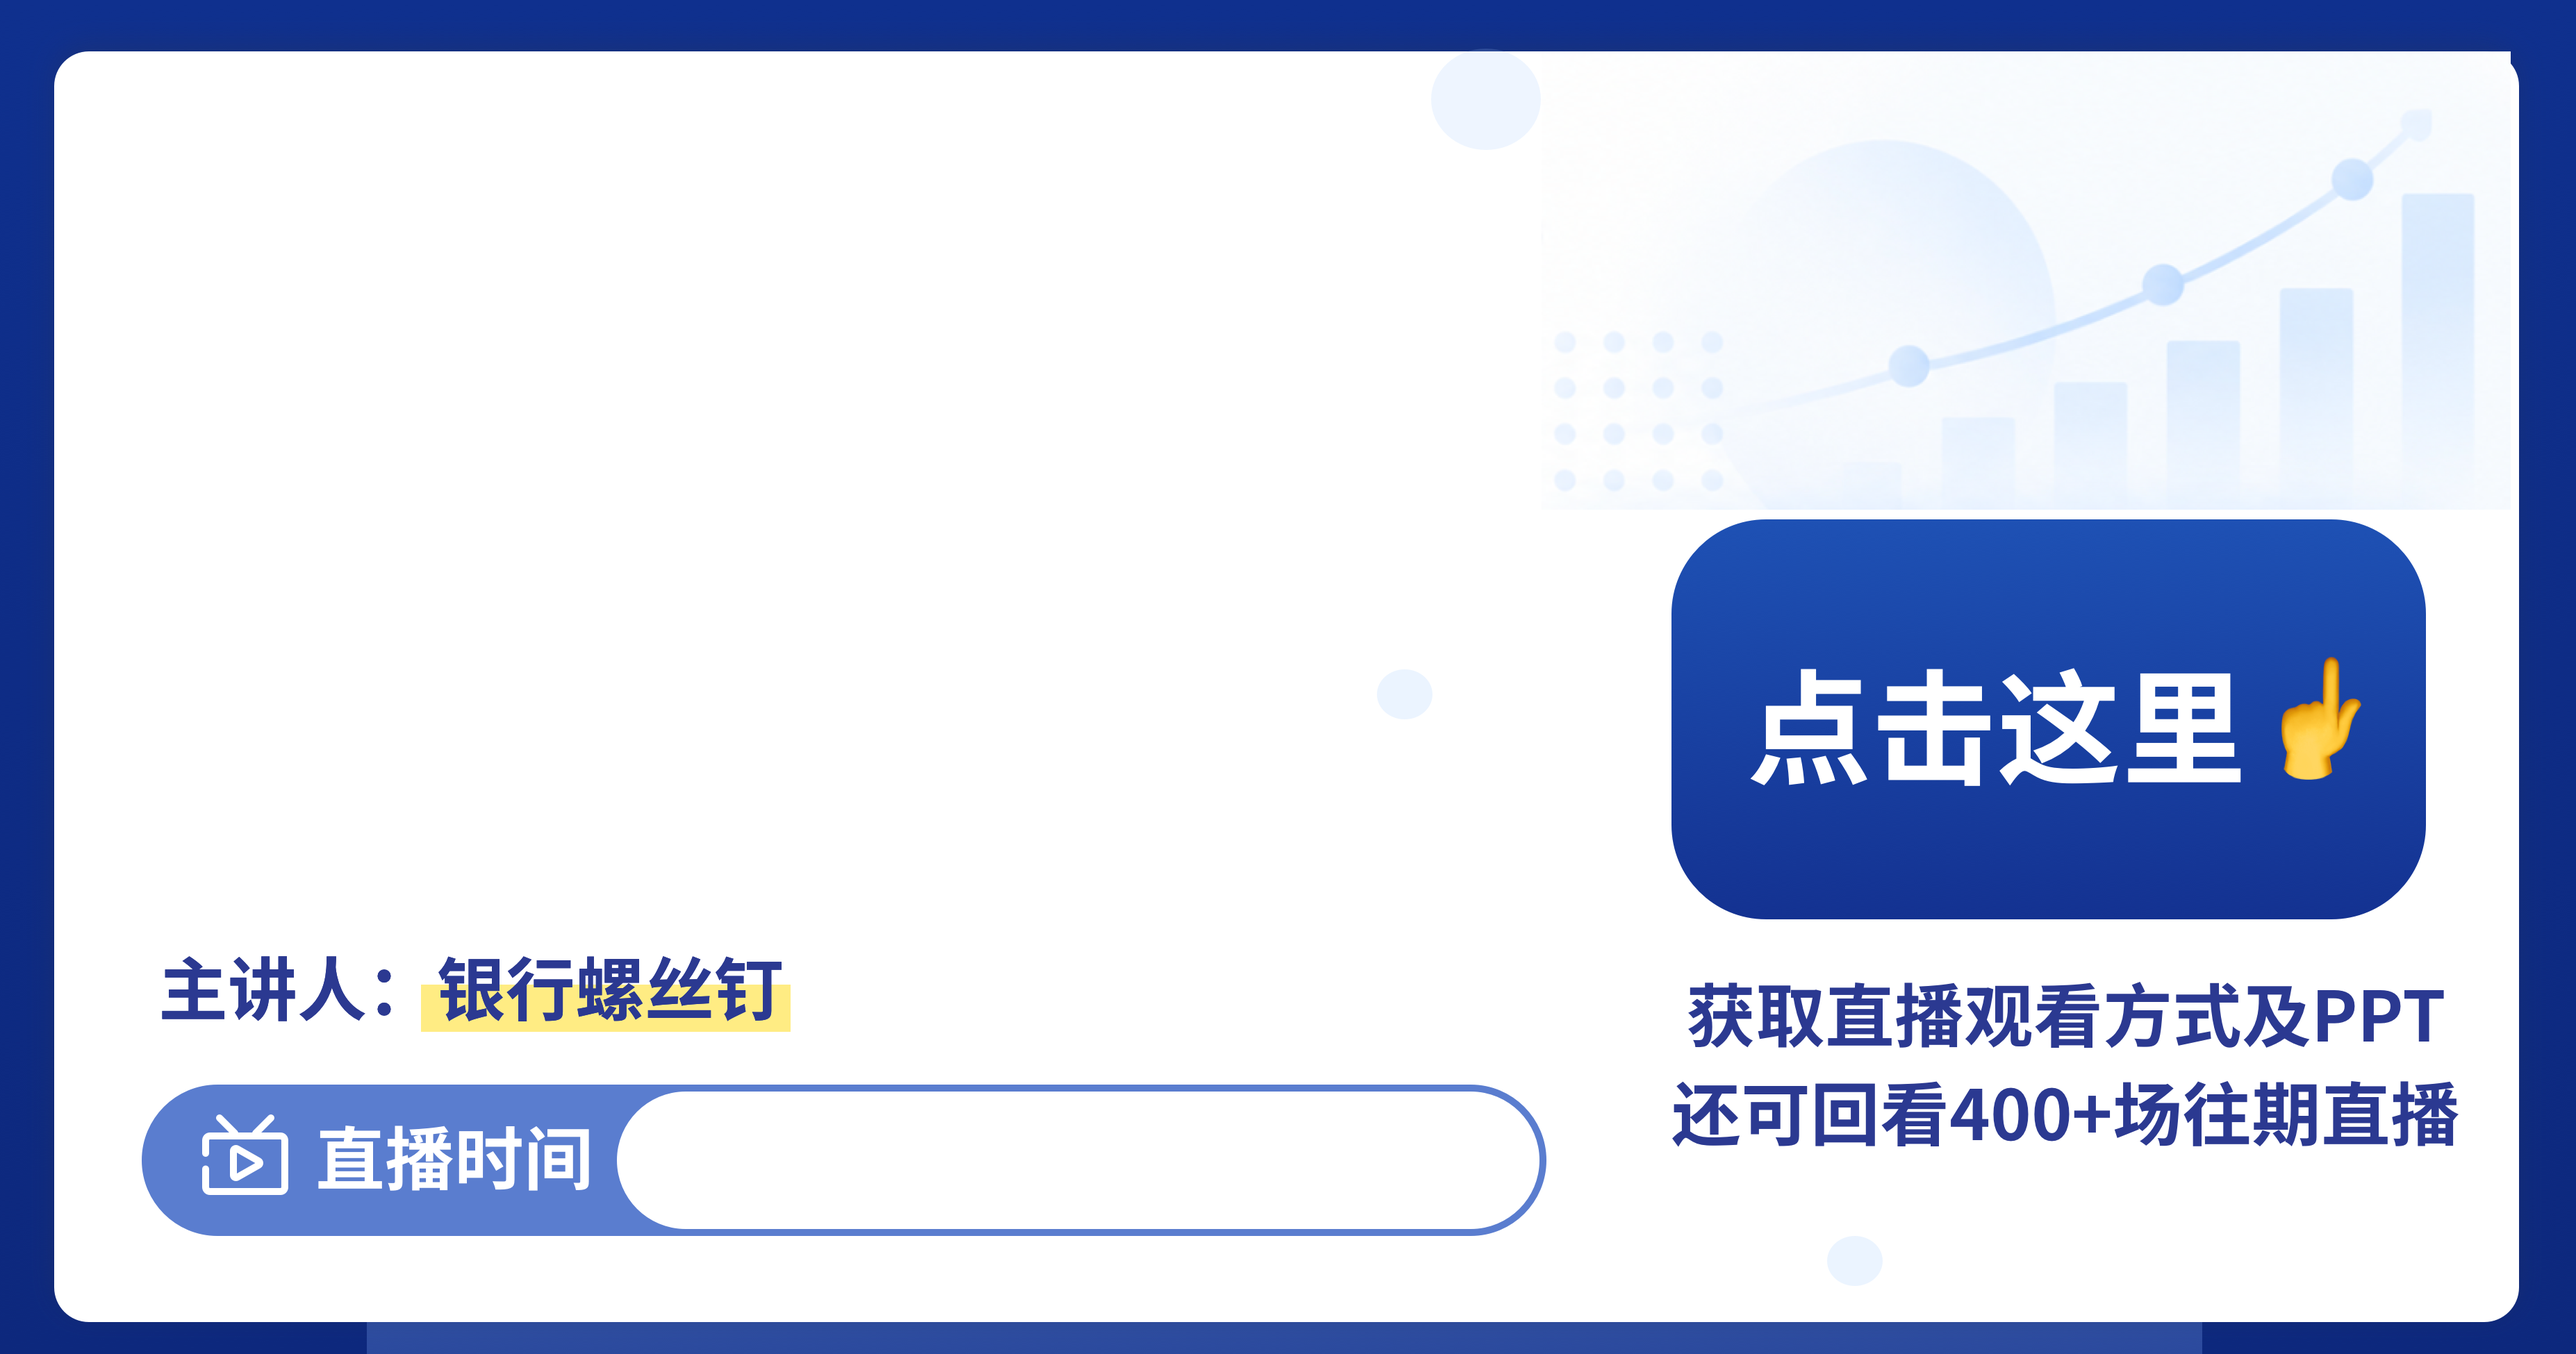
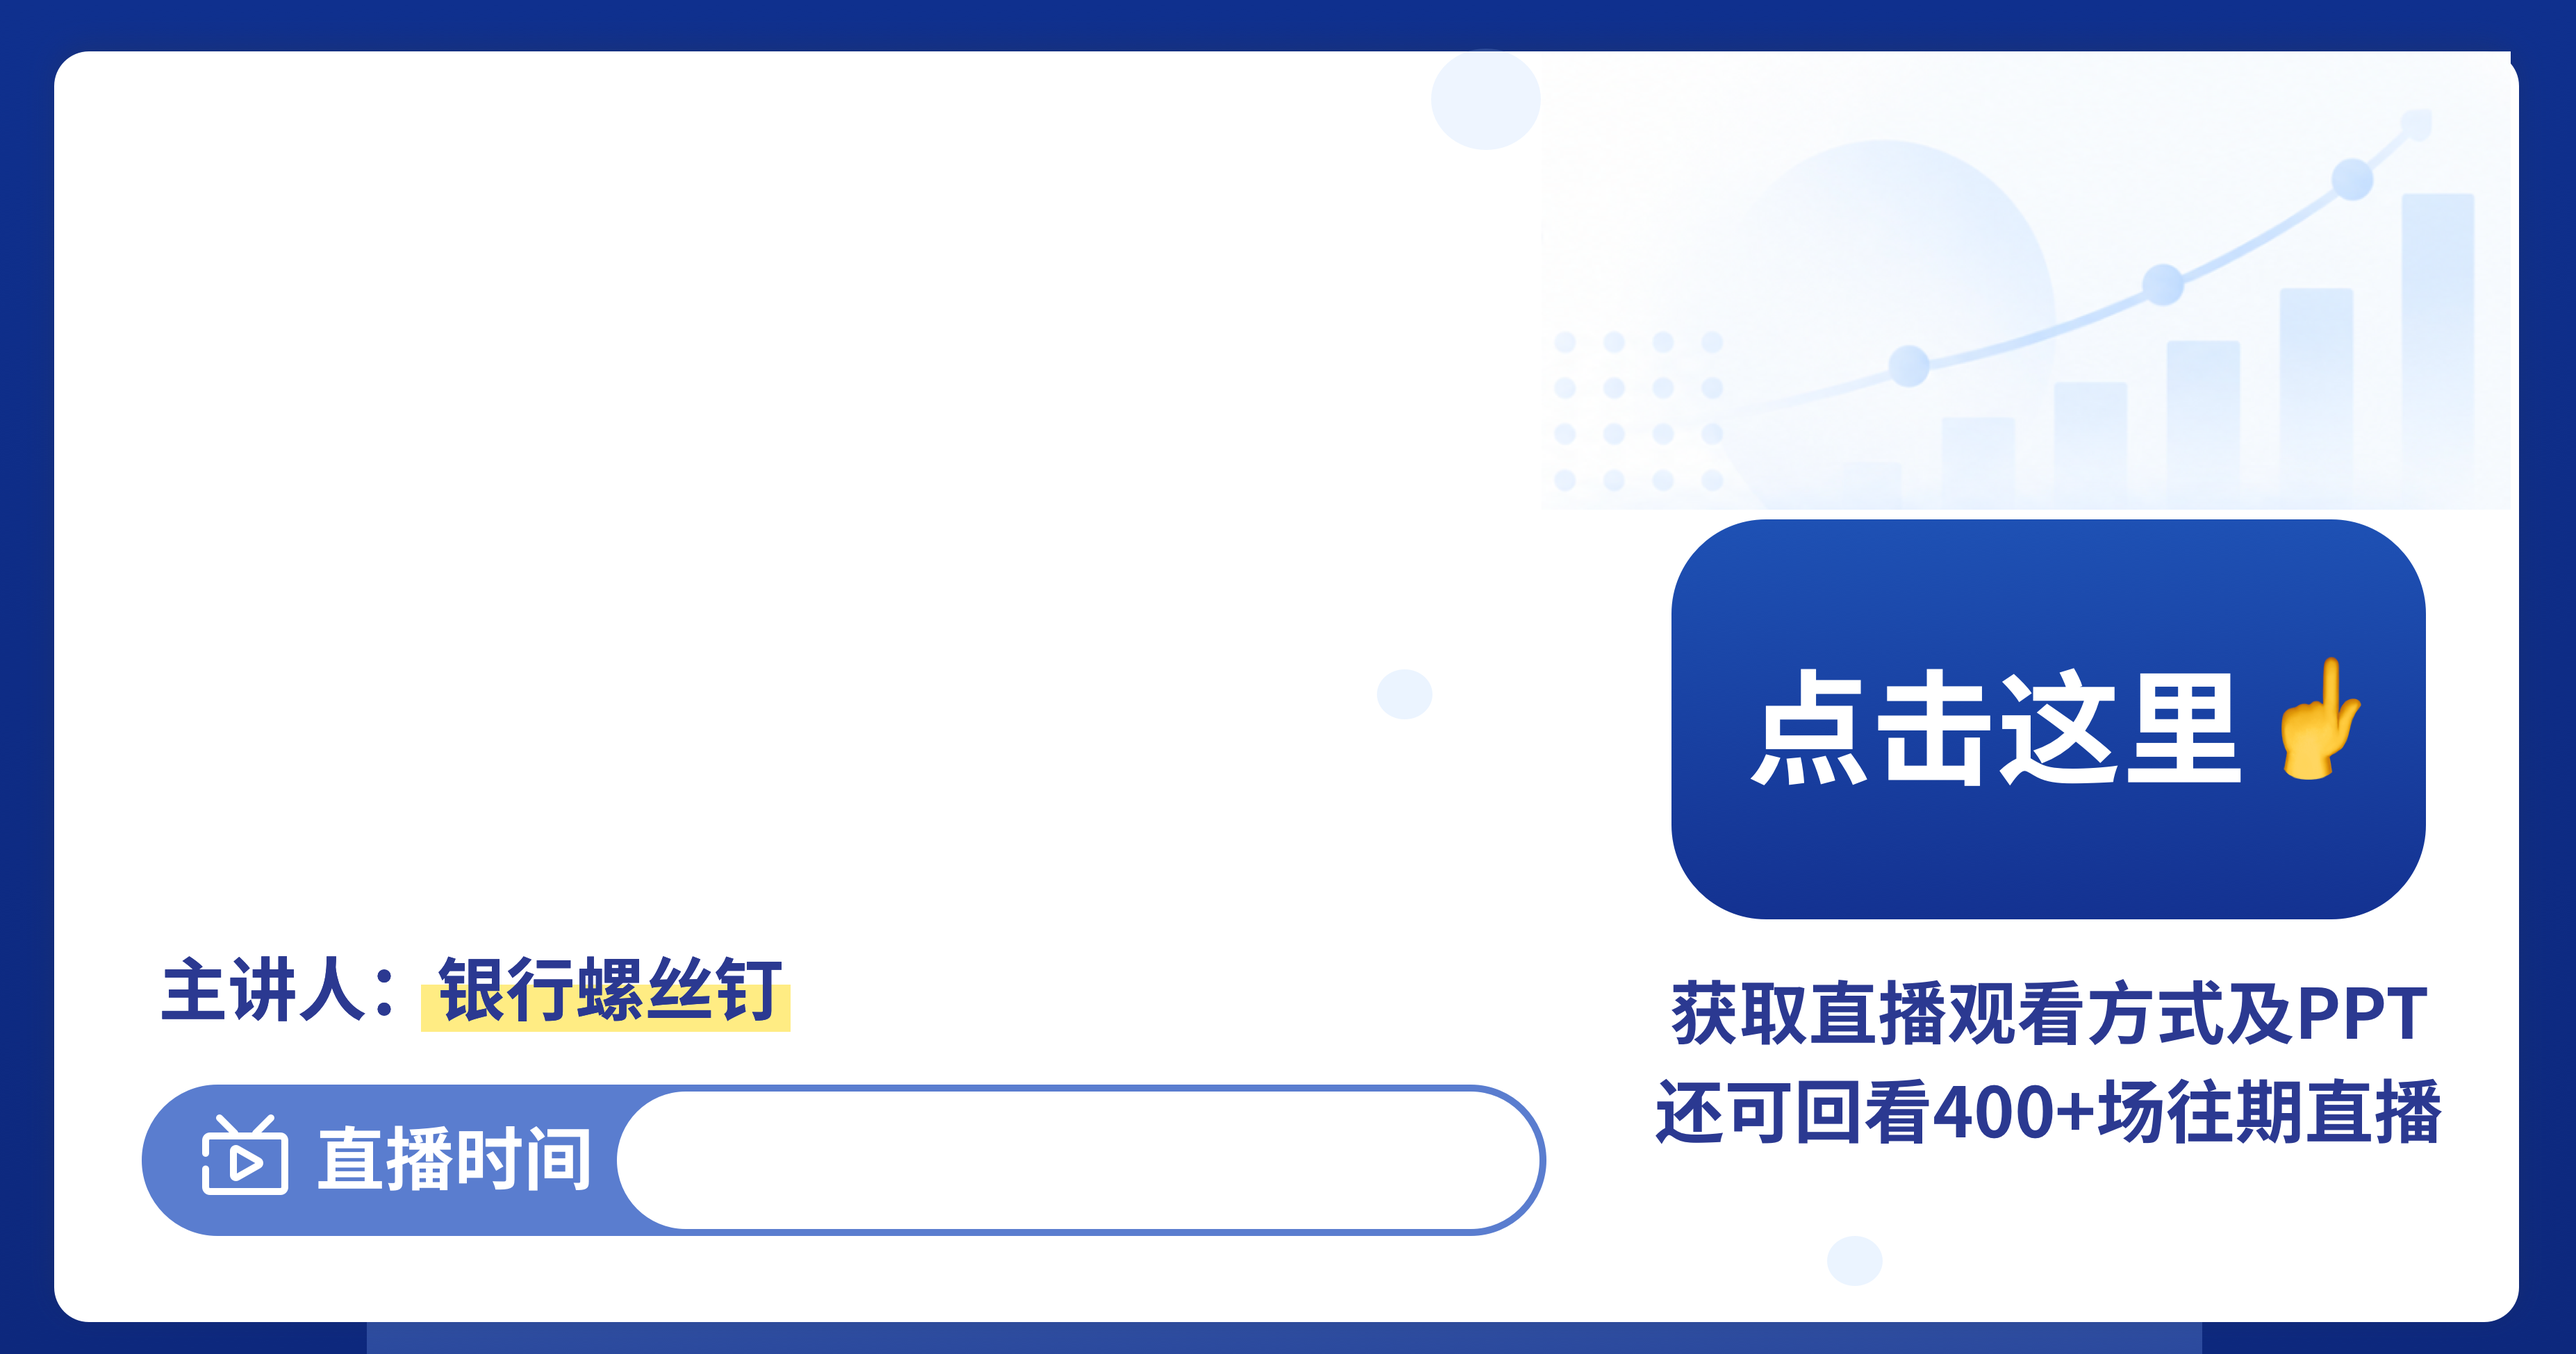
Calibrate no-QR content region and refresh horizontal template

Changed region(s): [[0.6203, 0.7077, 0.9614, 0.8615]]

diff --git a/template_config.py b/template_config.py
@@ -51,10 +51,7 @@ TEMPLATES_CONFIG = {
         "bullet_dot_x": 275,
         "bullet_dot_r": 14,
         "content_bot": 2367,
-        # Issue 475 calibration: move the title and caption group up 20px
-        # while preserving the time capsule and QR-code area.
-        "t5_content_shift": 10,
-        "content_y_offset": -10,
+        "t5_content_shift": 30,
         "content_layout": "template5",
         "time_cover_mode": "none",
         "time_text_x_offset": 0,
@@ -69,7 +66,9 @@ TEMPLATES_CONFIG = {
         "time_box": [882, 2304, 1328, 198],
         "date_code_box": None,
         "title_x": 226,
-        "title_y": 1354,
+        # Template-specific content region: the portrait/bio composition sits
+        # higher, so both anchors move together and auto-layout stays intact.
+        "title_y": 1334,
         "title_max_width": 2110,
         "caption_max_width": 1930,
         "caption_item_gap_max": 40,
@@ -80,7 +79,7 @@ TEMPLATES_CONFIG = {
         "content_x": 346,
         "bullet_dot_x": 275,
         "bullet_dot_r": 14,
-        "content_bot": 2293,
+        "content_bot": 2273,
         "t5_content_shift": 30,
         "content_layout": "template5",
         "time_cover_mode": "none",
